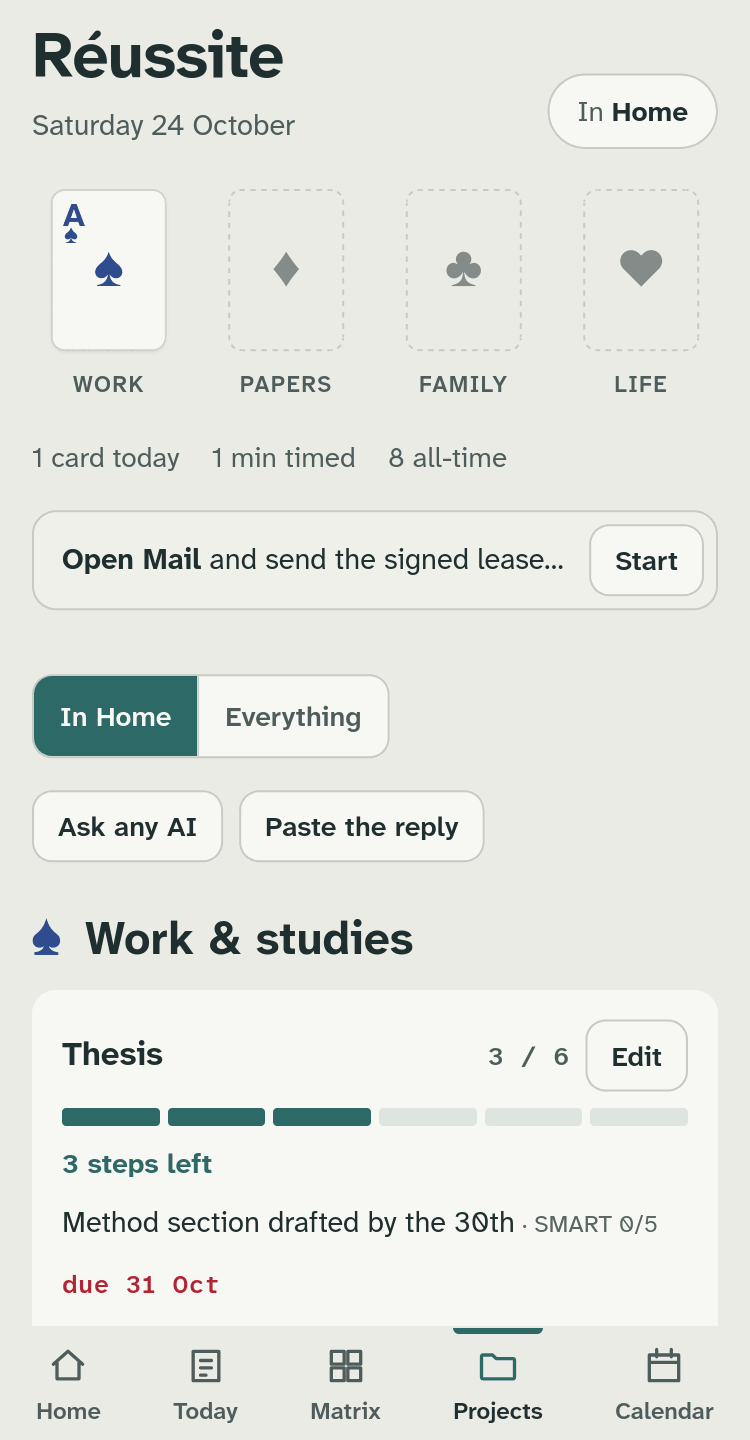
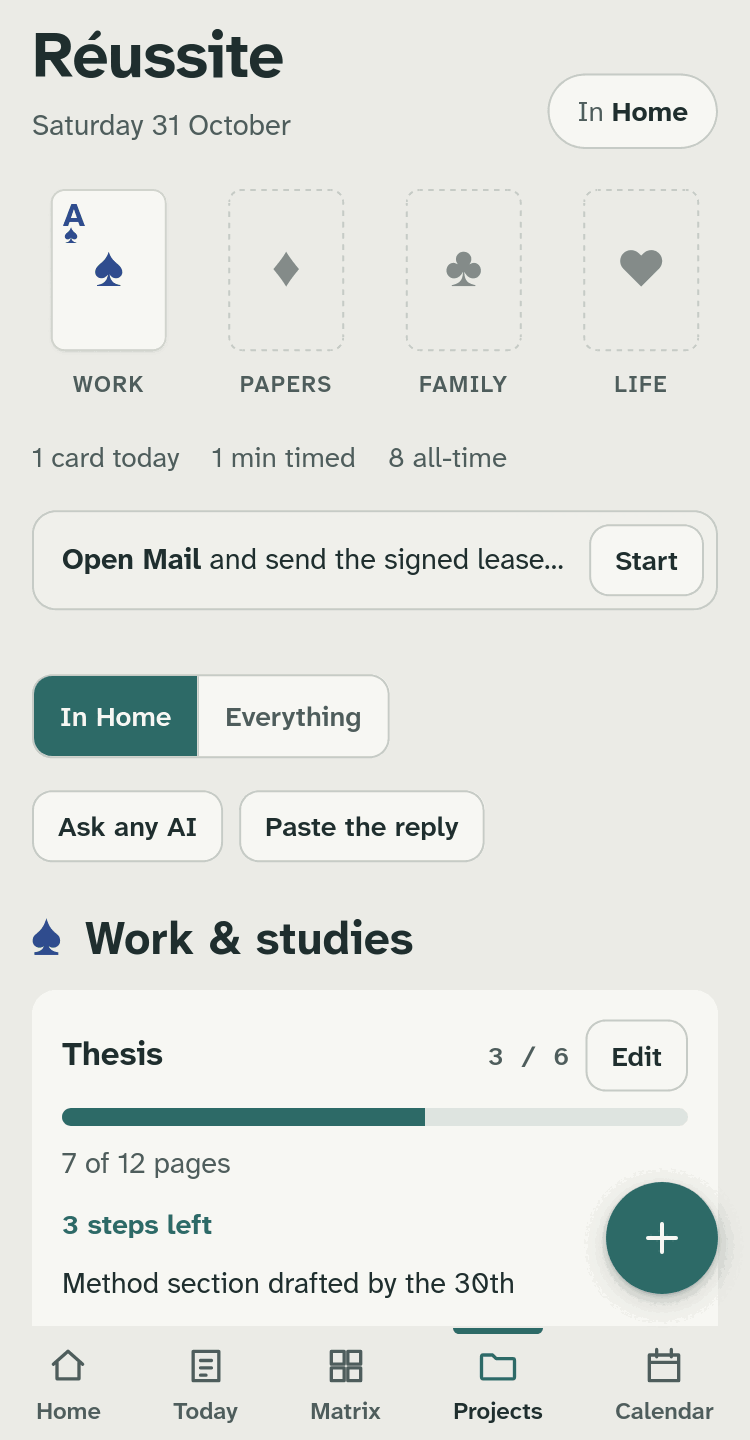
S6: the manual's Projects pictures show a measured bar
Claude-Session: https://claude.ai/code/session_01PoqEP42m8ZAqBBYY1MyYki

diff --git a/tests/manual/manual.spec.ts b/tests/manual/manual.spec.ts
@@ -28,6 +28,8 @@ function list(lang: Lang): Docs {
   const done = (title: string, project: string, suit: string, est: number, real: number, ago: number) => task(title, {
     project, suit, est, est0: est, status: 'done', doneDay: day(-ago), doneAt: day(-ago) + 'T10:00:00.000Z', where: 'any',
   });
+  // The thesis is counted in pages: two done steps moved it (3 and 4 pages), a third said it does not.
+  const MOVES: Record<number, Record<string, unknown>> = { 2: { advances: true, advanceBy: 3 }, 3: { advances: false }, 6: { advances: true, advanceBy: 4 } };
   const past = [
     ['Open the bank app and download the September statement', 'Ouvrir l’appli de la banque et télécharger le relevé de septembre', 'p1', 'D', 10, 14, 1],
     ['Open Mail and reply to the electrician', 'Ouvrir Mail et répondre à l’électricien', 'p1', 'D', 10, 12, 2],
@@ -39,7 +41,7 @@ function list(lang: Lang): Docs {
   ] as const;
   const tasks: [string, Record<string, unknown>][] = [
     ['t1', task(L('Open Mail and send the signed lease to the agency', 'Ouvrir Mail et envoyer le bail signé à l’agence'), { project: 'p1', suit: 'D', due: day(2), urgent: true, est: 10, order: 1 })],
-    ['t2', task(L('Open the thesis draft and write the second paragraph of the method section', 'Ouvrir le mémoire et écrire le deuxième paragraphe de la méthode'), { project: 'p3', suit: 'S', est: 30, order: 2, starter: L('Open the draft on the method section', 'Ouvrir le brouillon à la section méthode') })],
+    ['t2', task(L('Open the thesis draft and write the second paragraph of the method section', 'Ouvrir le mémoire et écrire le deuxième paragraphe de la méthode'), { project: 'p3', suit: 'S', est: 30, order: 2, advances: true, advanceBy: 2, starter: L('Open the draft on the method section', 'Ouvrir le brouillon à la section méthode') })],
     ['t3', task(L('Open Doctolib and book the dentist', 'Ouvrir Doctolib et prendre rendez-vous chez le dentiste'), { project: 'p2', suit: 'H', due: day(5), est: 10, app: 'Doctolib', link: 'https://www.doctolib.fr/', order: 3 })],
     ['t4', task(L('Open Messages and text Alex about Sunday', 'Ouvrir Messages et écrire à Alex pour dimanche'), { project: 'p2', suit: 'H', due: day(3), important: false, est: 5, order: 4 })],
     ['t5', task(L('Open Files and sort the scanned receipts', 'Ouvrir Fichiers et trier les reçus scannés'), { project: 'p1', suit: 'D', important: false, est: 20, order: 5, where: 'oldtown' })],
@@ -55,7 +57,7 @@ function list(lang: Lang): Docs {
     ['t15', task(L('Call with the agency', 'Appel avec l’agence'), { project: 'p1', suit: 'D', due: day(0), at: '11:30', dur: 30, est: 30, order: 15 })],
     ['t16', task(L('Lunch with Noor', 'Déjeuner avec Noor'), { project: 'p2', suit: 'H', due: day(2), at: '12:30', dur: 60, est: 60, order: 16 })],
     ['t11', task(L('Open the buy-a-gift list and pick a gift for Mum', 'Ouvrir la liste de cadeaux et en choisir un pour maman'), { project: 'p2', suit: 'H', where: 'lisbon', est: 20, order: 11, dueRule: { beforeEndOf: 'stay1', daysBefore: 2 } })],
-    ...past.map(([en, fr, p, s, est, real, ago], i) => [`d${i}`, done(L(en, fr), p, s, est, real, ago)] as [string, Record<string, unknown>]),
+    ...past.map(([en, fr, p, s, est, real, ago], i) => [`d${i}`, { ...done(L(en, fr), p, s, est, real, ago), ...(MOVES[i] ?? {}) }] as [string, Record<string, unknown>]),
   ];
   const sessions: [string, Record<string, unknown>][] = past.map(([, , , , , real, ago], i) => [`s${i}`, { taskId: `d${i}`, d: day(-ago), m: real, why: 'done', at: day(-ago) + 'T10:00:00.000Z', source: 'timer' }]);
   const item = (id: string, text: string, w: number) => ({ id, text, w, by: 'me' });
@@ -64,9 +66,9 @@ function list(lang: Lang): Docs {
     places: [['home', { name: L('Home', 'Maison'), timeZone: 'Europe/Paris', order: 1 }], ['lisbon', { name: L('Lisbon', 'Lisbonne'), timeZone: 'Europe/Lisbon', order: 2 }], ['oldtown', { name: L('Old town', 'Vieille ville'), timeZone: 'Europe/Paris', order: 3, parentId: 'home' }]],
     stays: [['stay1', { placeId: 'lisbon', from: day(12), to: day(16), note: '' }]],
     projects: [
-      ['p1', { name: L('Housing papers', 'Papiers du logement'), suit: 'D', where: 'any', goal: L('Lease signed and filed by the end of the month', 'Bail signé et classé avant la fin du mois'), goalBy: 'me', due: day(20), order: 1, status: 'active' }],
+      ['p1', { name: L('Housing papers', 'Papiers du logement'), suit: 'D', where: 'any', goal: L('Lease signed and filed by the end of the month', 'Bail signé et classé avant la fin du mois'), goalBy: 'me', outcome: L('Lease signed and filed by the end of the month', 'Bail signé et classé avant la fin du mois'), measure: { kind: 'milestones', items: [{ id: 'm1', text: L('Lease signed', 'Bail signé'), done: day(-3) }, { id: 'm2', text: L('Boiler form filed', 'Formulaire de la chaudière classé'), done: null }, { id: 'm3', text: L('Receipts sorted', 'Reçus triés'), done: null }] }, start: day(-20), due: day(20), order: 1, status: 'active' }],
       ['p2', { name: L('Friends & outings', 'Amis et sorties'), suit: 'H', where: 'any', goal: L('See a friend every week', 'Voir un proche chaque semaine'), goalBy: 'me', due: null, order: 2, status: 'active' }],
-      ['p3', { name: L('Thesis', 'Mémoire'), suit: 'S', where: 'home', goal: L('Method section drafted by the 30th', 'Section méthode rédigée avant le 30'), goalBy: 'me', due: day(7), order: 3, status: 'active' }],
+      ['p3', { name: L('Thesis', 'Mémoire'), suit: 'S', where: 'home', goal: L('Method section drafted by the 30th', 'Section méthode rédigée avant le 30'), goalBy: 'me', outcome: L('Method section drafted by the 30th', 'Section méthode rédigée avant le 30'), measure: { kind: 'count', target: 12, unit: L('pages', 'pages') }, start: day(-20), due: day(7), order: 3, status: 'active' }],
       ['inbox', { name: L('Inbox', 'Boîte de réception'), suit: 'S', where: 'any', goal: null, goalBy: null, due: null, order: 99, status: 'active' }],
     ],
     tasks, sessions,
